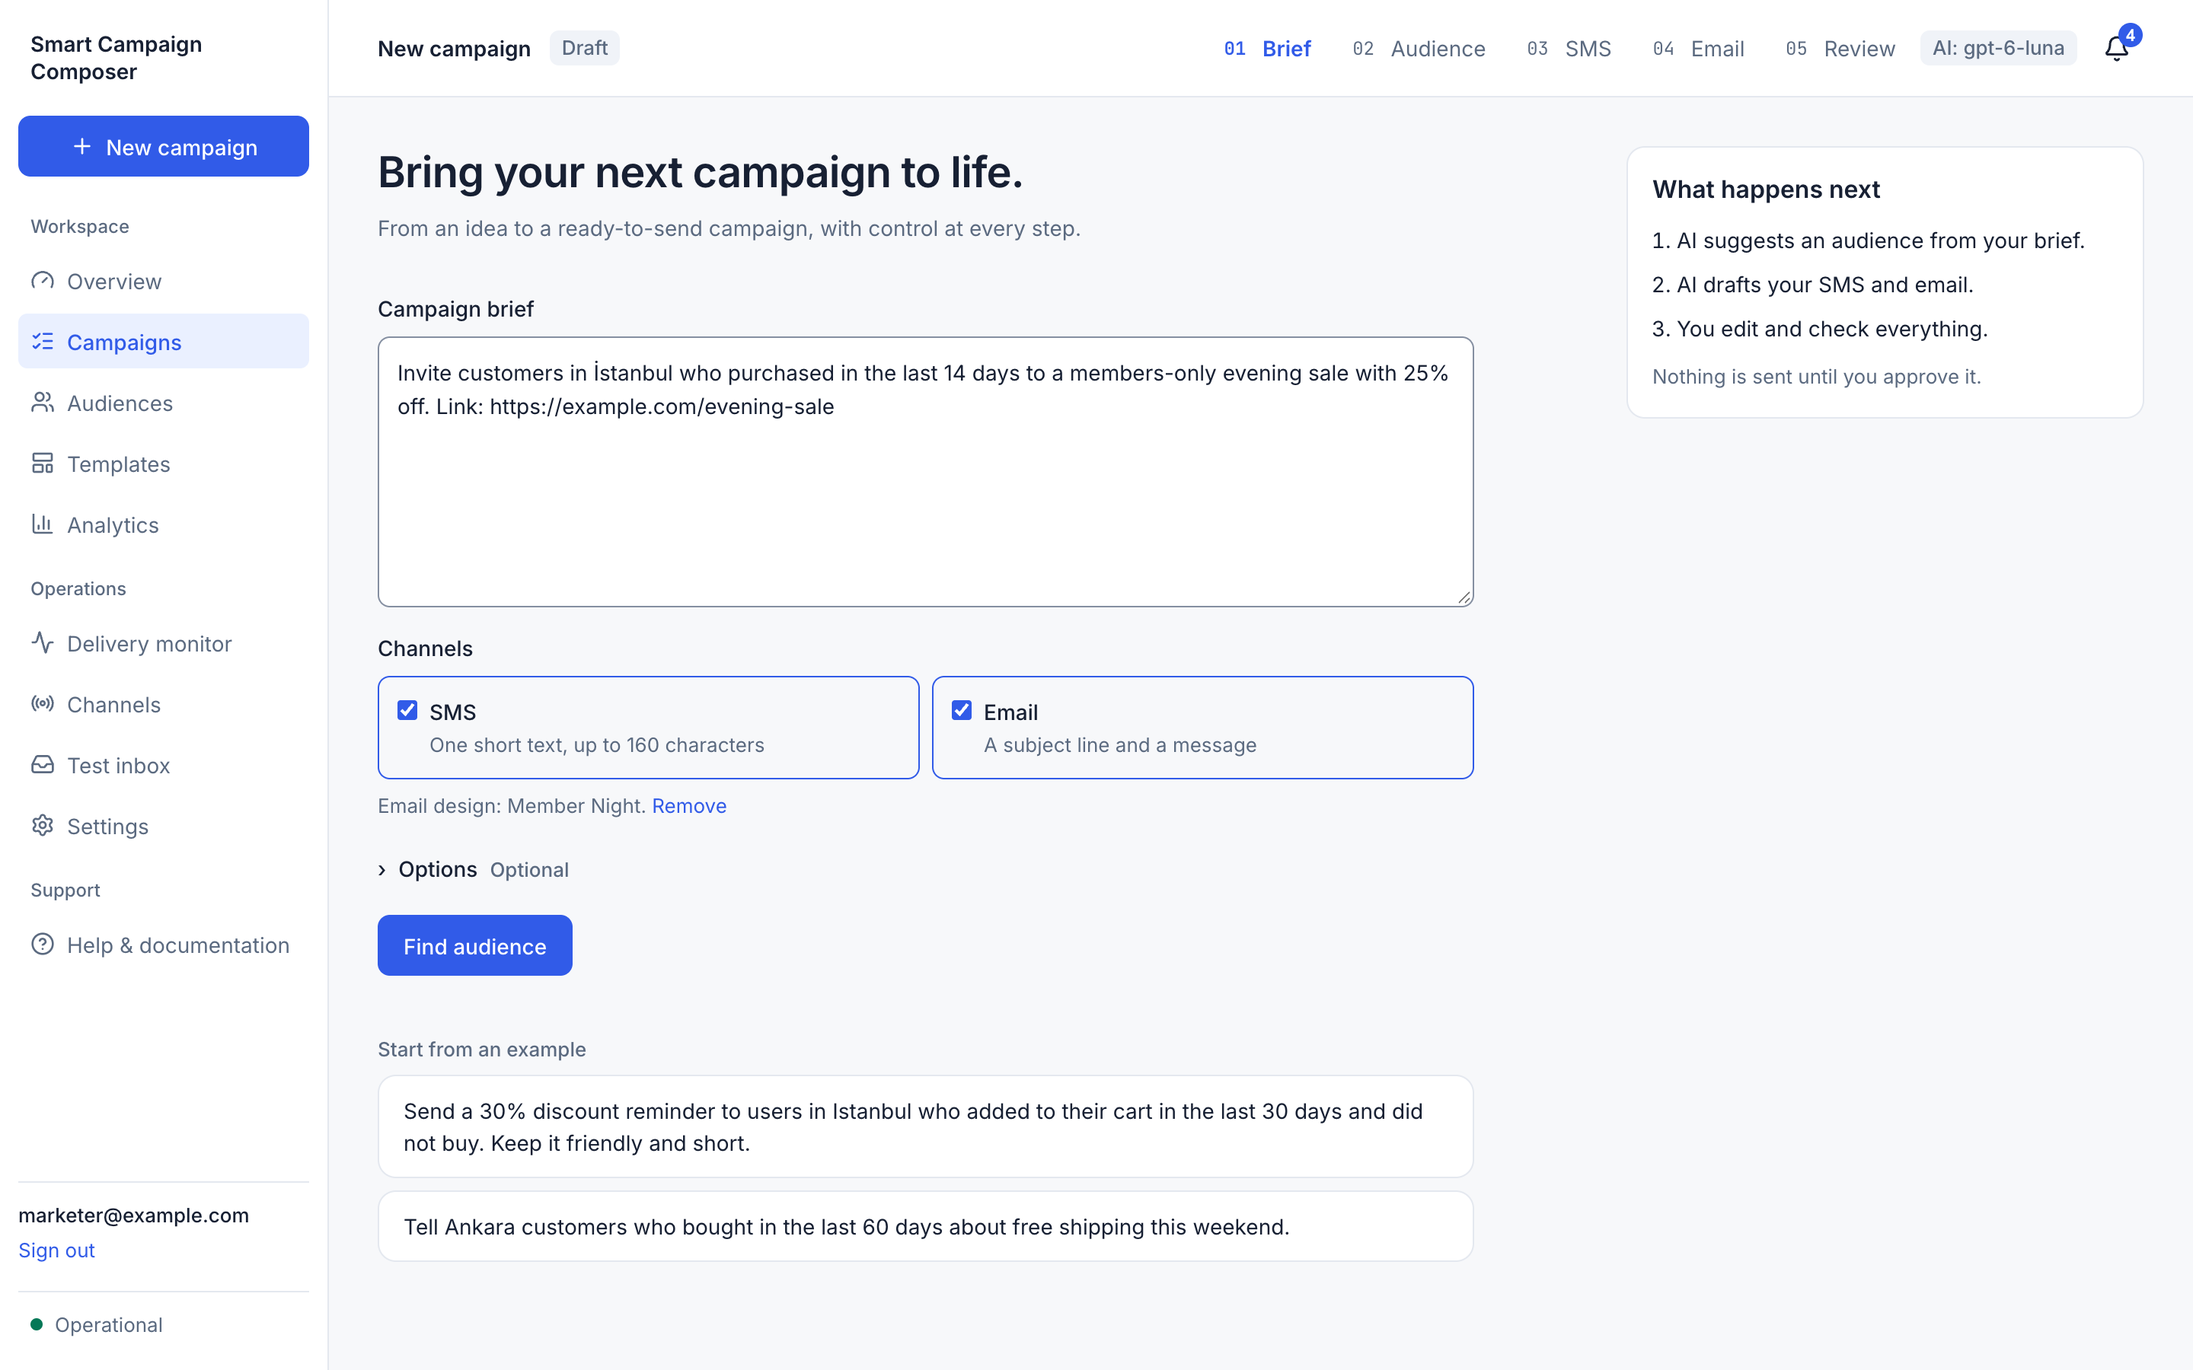
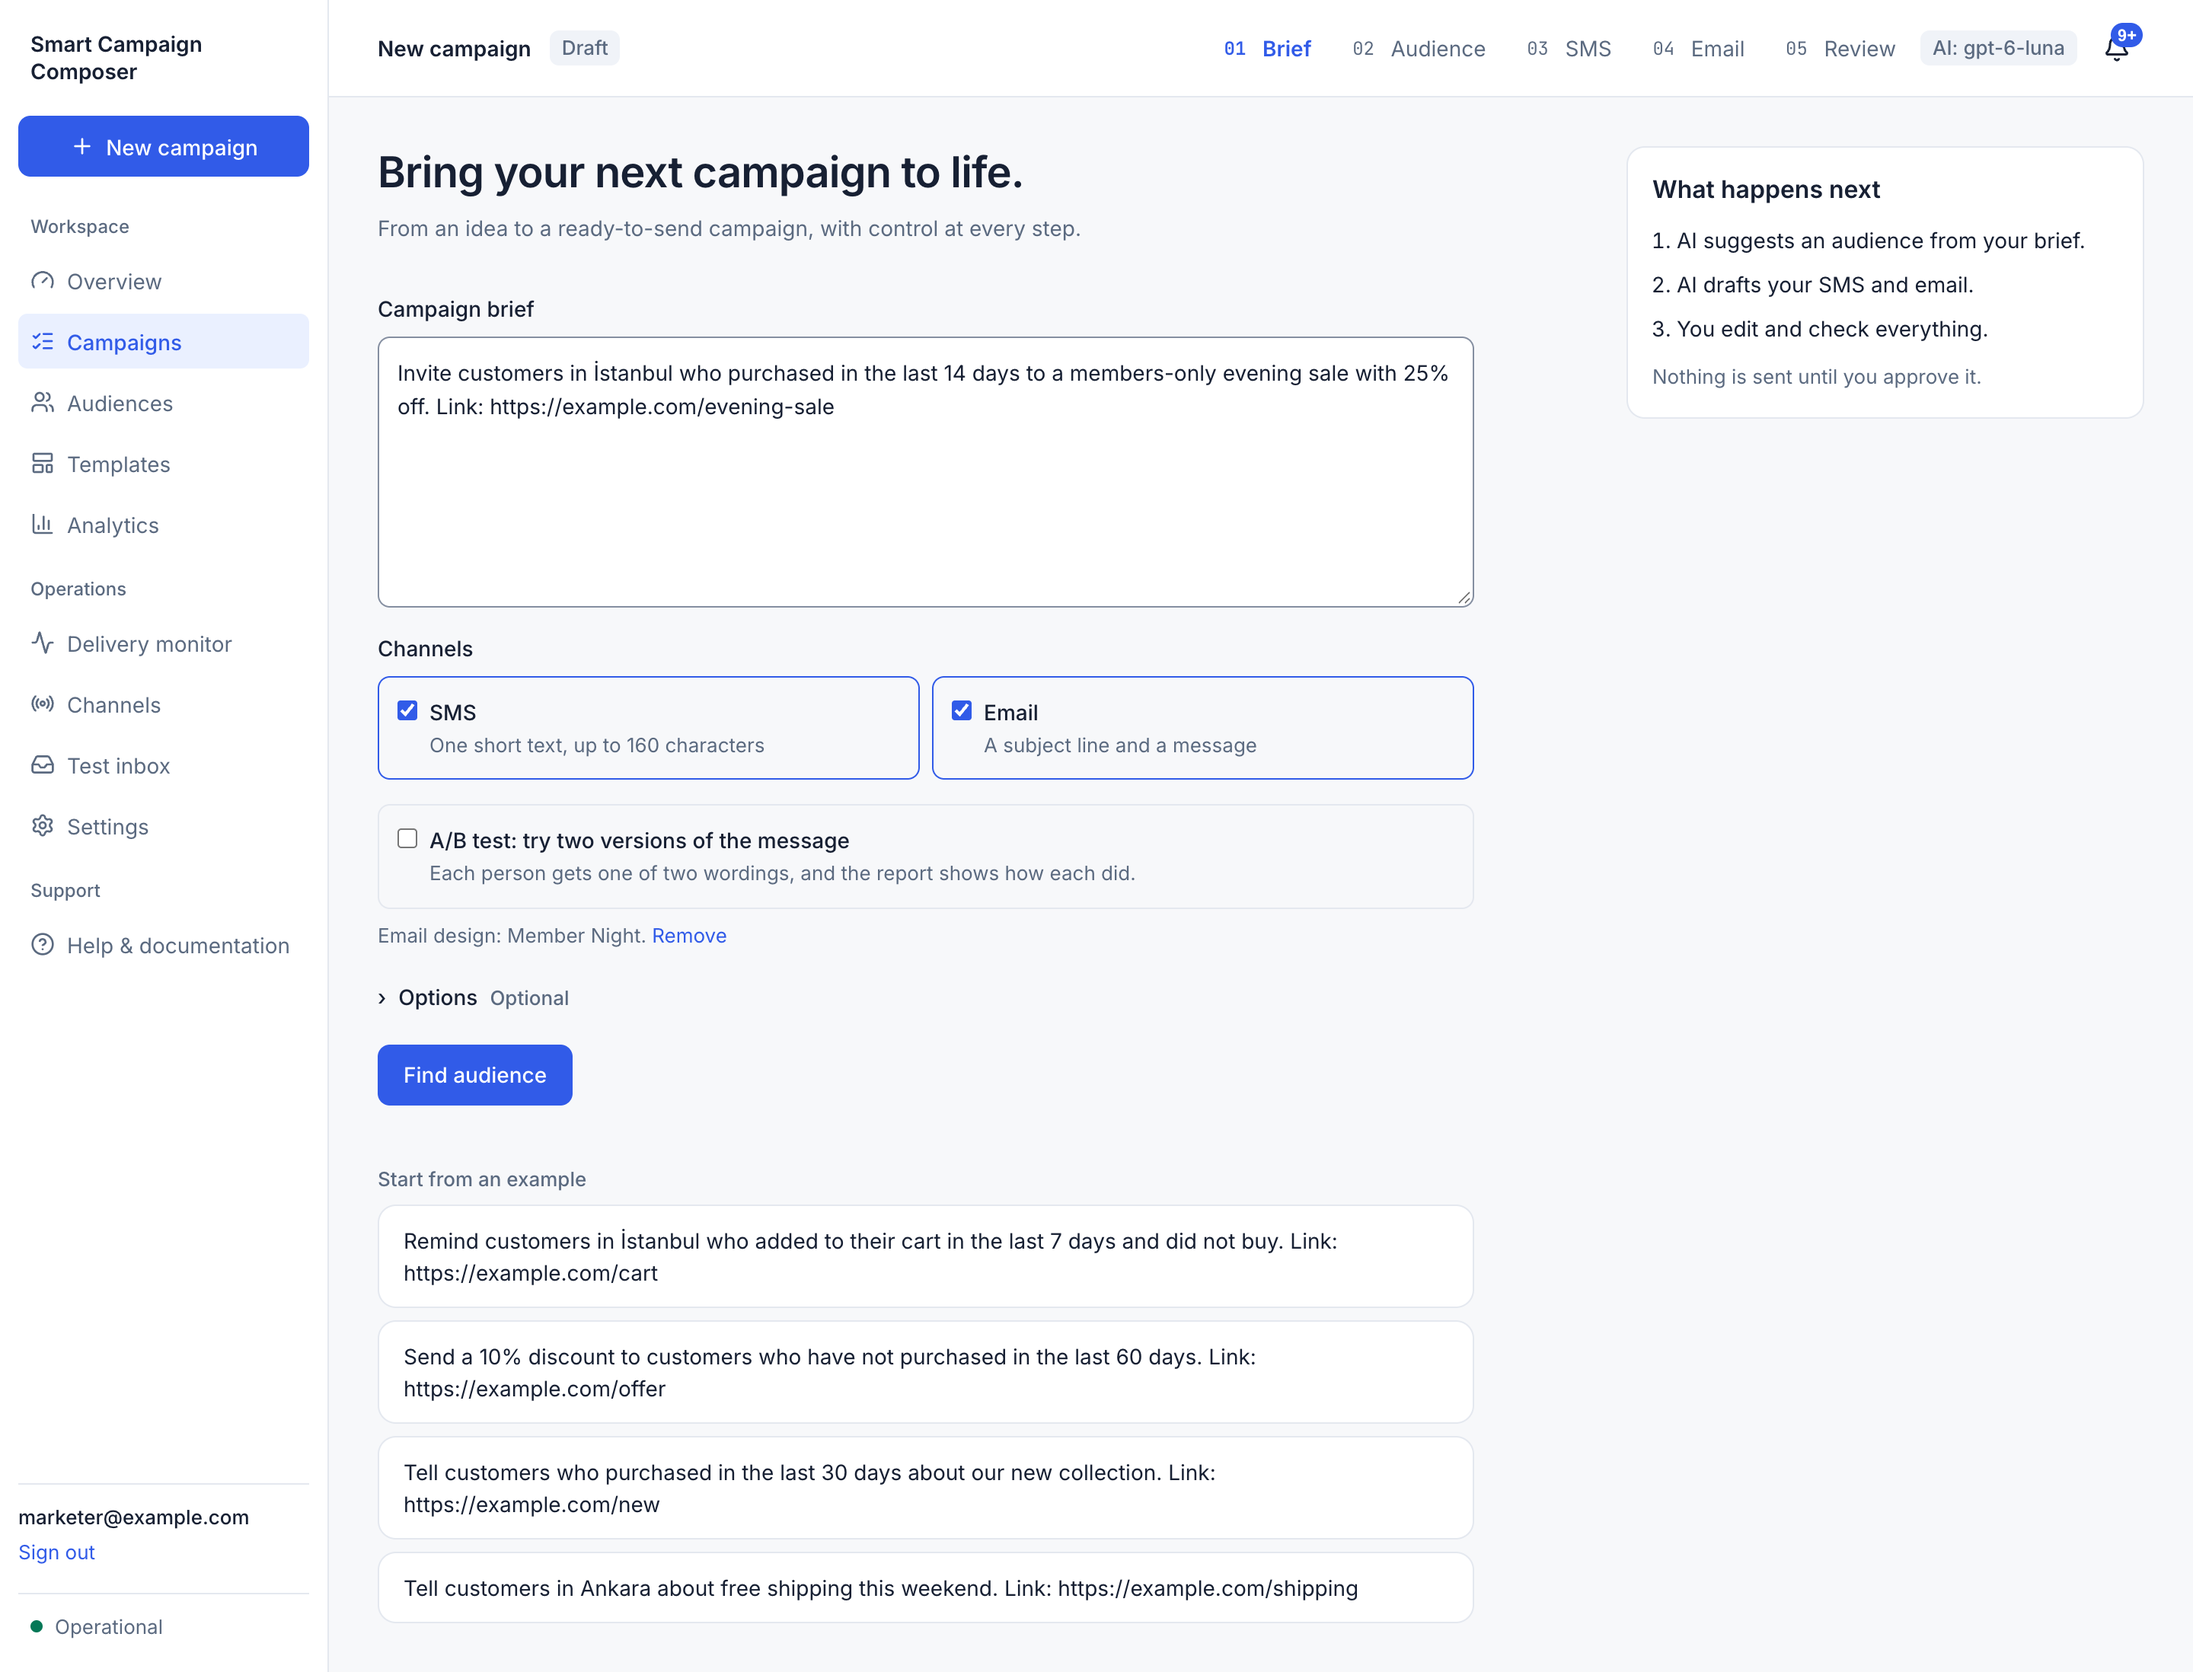
feat: surface the A/B test option, tick each version while writing and refresh the campaign examples

diff --git a/frontend/src/views/ComposeView.vue b/frontend/src/views/ComposeView.vue
@@ -50,8 +50,10 @@ onMounted(async () => {
 });
 
 const suggestions = [
-  "Send a 30% discount reminder to users in Istanbul who added to their cart in the last 30 days and did not buy. Keep it friendly and short.",
-  "Tell Ankara customers who bought in the last 60 days about free shipping this weekend.",
+  "Remind customers in İstanbul who added to their cart in the last 7 days and did not buy. Link: https://example.com/cart",
+  "Send a 10% discount to customers who have not purchased in the last 60 days. Link: https://example.com/offer",
+  "Tell customers who purchased in the last 30 days about our new collection. Link: https://example.com/new",
+  "Tell customers in Ankara about free shipping this weekend. Link: https://example.com/shipping",
 ];
 
 const validShare = computed(() => Number.isInteger(firstShare.value) && Number(firstShare.value) >= 1 && Number(firstShare.value) <= 99);
@@ -69,7 +71,6 @@ const optionsSummary = computed(() => {
   const chosen = [
     tone.value && tone.value[0].toUpperCase() + tone.value.slice(1),
     hasOffer.value && offer.value !== "" && `${offer.value}% discount`,
-    abTest.value && validShare.value && `Two versions, ${firstShare.value}/${100 - Number(firstShare.value)}`,
     quietDays.value && `Leaves out people messaged in the last ${quietDays.value} days`,
   ].filter(Boolean);
   return chosen.length ? chosen.join(" · ") : "Optional";
@@ -116,6 +117,22 @@ async function findAudience() {
       @submit="findAudience"
     >
       <ChannelPicker v-model="channels" :disabled="busy" />
+      <fieldset class="ab" :class="{ 'ab--on': abTest }" :disabled="busy" data-testid="ab-option">
+        <label class="ab-choice" for="campaign-ab-test">
+          <input id="campaign-ab-test" v-model="abTest" type="checkbox" data-testid="ab-test" />
+          <span class="ab-text">
+            <span class="ab-name">A/B test: try two versions of the message</span>
+            <span class="muted small">Each person gets one of two wordings, and the report shows how each did.</span>
+          </span>
+        </label>
+        <div v-if="abTest" class="option ab-share">
+          <label class="small muted" for="campaign-first-share">People who get version A (%)</label>
+          <input id="campaign-first-share" v-model.number="firstShare" class="field control" type="number" min="1" max="99" step="1" data-testid="ab-share" />
+          <p class="muted small" data-testid="ab-test-note">
+            <template v-if="validShare">The other {{ 100 - Number(firstShare) }}% get version B. </template>The offer stays the same; only the wording differs.
+          </p>
+        </div>
+      </fieldset>
       <p v-if="savedAudience" class="small muted chosen-template" data-testid="chosen-audience">
         Audience: {{ savedAudience.name }} ({{ savedAudience.conditions.map(ruleText).join(", ") }}).
         <button class="link-button small" type="button" data-testid="remove-audience" @click="savedAudience = null">Remove</button>
@@ -149,17 +166,6 @@ async function findAudience() {
               <label class="small muted" for="campaign-offer">Discount (%)</label>
               <input id="campaign-offer" v-model.number="offer" class="field control" type="number" min="1" max="100" step="1" />
             </div>
-            <label class="check small" for="campaign-ab-test">
-              <input id="campaign-ab-test" v-model="abTest" type="checkbox" data-testid="ab-test" />
-              Test two versions of the message
-            </label>
-            <div v-if="abTest" class="option">
-              <label class="small muted" for="campaign-first-share">People who get version A (%)</label>
-              <input id="campaign-first-share" v-model.number="firstShare" class="field control" type="number" min="1" max="99" step="1" data-testid="ab-share" />
-              <p class="muted small" data-testid="ab-test-note">
-                <template v-if="validShare">The other {{ 100 - Number(firstShare) }}% get version B. </template>The offer stays the same; only the wording differs.
-              </p>
-            </div>
           </fieldset>
           <fieldset class="options" :disabled="busy" data-testid="audience-options">
             <legend class="legend">Who to leave out</legend>
@@ -181,6 +187,58 @@ async function findAudience() {
 </template>
 
 <style scoped>
+.ab {
+  display: grid;
+  gap: var(--space-3);
+  min-width: 0;
+  margin: var(--space-2) 0 0;
+  padding: var(--space-3);
+  border: 1px solid var(--color-border);
+  border-radius: var(--radius-md);
+}
+
+.ab--on {
+  border-color: var(--color-primary);
+}
+
+.ab:disabled {
+  opacity: 0.6;
+}
+
+.ab-choice {
+  display: flex;
+  align-items: flex-start;
+  gap: var(--space-2);
+  cursor: pointer;
+}
+
+.ab:disabled .ab-choice {
+  cursor: not-allowed;
+}
+
+.ab-choice input {
+  margin: 3px 0 0;
+  accent-color: var(--color-primary);
+}
+
+.ab-text {
+  display: grid;
+  gap: 2px;
+  min-width: 0;
+}
+
+.ab-name {
+  font-weight: 500;
+}
+
+.ab-share .control {
+  max-width: 120px;
+}
+
+.ab-share p {
+  margin: 0;
+}
+
 .more {
   margin-top: var(--space-2);
 }

diff --git a/frontend/src/components/GenerationProgress.vue b/frontend/src/components/GenerationProgress.vue
@@ -10,6 +10,15 @@ const finished = computed(() => props.languages.filter((row) => row.state === "d
 const title = computed(() => (props.variant ? `Writing version ${props.variant}` : "Writing the messages"));
 const words = computed(() => ({ waiting: "Up next", writing: `Writing ${props.writes}`, done: "Written and checked" }));
 const icons = { waiting: Clock, writing: LoaderCircle, done: CircleCheck };
+
+// A test is written one version after the other, so a finished one stays ticked.
+const versions = computed(() => {
+  if (!props.variant) return [];
+  const current = finished.value === props.languages.length ? ("done" as const) : ("writing" as const);
+  return props.variant === "A"
+    ? [{ name: "A", state: current }, { name: "B", state: "waiting" as const }]
+    : [{ name: "A", state: "done" as const }, { name: "B", state: current }];
+});
 </script>
 
 <template>
@@ -18,6 +27,13 @@ const icons = { waiting: Clock, writing: LoaderCircle, done: CircleCheck };
       <h3>{{ title }}</h3>
       <span class="muted small" data-testid="generation-count">{{ finished }} of {{ languages.length }} {{ languages.length === 1 ? "language" : "languages" }}</span>
     </div>
+    <ol v-if="versions.length" class="versions" data-testid="generation-versions">
+      <li v-for="version in versions" :key="version.name" class="row" :class="`row--${version.state}`" :data-testid="`generation-version-${version.name}`" :data-state="version.state">
+        <component :is="icons[version.state]" class="icon" :class="{ 'icon--spin': version.state === 'writing' }" :size="16" aria-hidden="true" />
+        <span class="name">Version {{ version.name }}</span>
+        <span class="visually-hidden">{{ { waiting: "up next", writing: "being written", done: "finished" }[version.state] }}</span>
+      </li>
+    </ol>
     <ul class="rows">
       <li v-for="row in languages" :key="row.language" class="row" :class="`row--${row.state}`" :data-testid="`generation-${row.language}`">
         <component :is="icons[row.state]" class="icon" :class="{ 'icon--spin': row.state === 'writing' }" :size="16" aria-hidden="true" />
@@ -47,6 +63,16 @@ const icons = { waiting: Clock, writing: LoaderCircle, done: CircleCheck };
 .head h3,
 .progress p {
   margin: 0;
+}
+
+.versions {
+  display: flex;
+  flex-wrap: wrap;
+  gap: var(--space-2) var(--space-6);
+  margin: 0;
+  padding: 0 0 var(--space-3);
+  border-bottom: 1px solid var(--color-border);
+  list-style: none;
 }
 
 .rows {

diff --git a/frontend/src/views/content.test.ts b/frontend/src/views/content.test.ts
@@ -168,6 +168,31 @@ describe("content page", () => {
       expect(JSON.parse(String(put?.[1]?.body))).toMatchObject({ language: "en", sms: "Edited {{first_name}}" });
     });
 
+    it("starts the progress over when the second version of a test begins", async () => {
+      let next: (chunk: string) => void = () => {};
+      const stream = new ReadableStream({
+        start(controller) {
+          const encoder = new TextEncoder();
+          next = (chunk) => controller.enqueue(encoder.encode(chunk));
+        },
+      });
+      stub({ ...base, ab_test: true }, async () => ({ ok: true, status: 200, body: stream }));
+      const wrapper = open();
+      await flushPromises();
+      next(event("started", {}) + event("plan", { languages: ["tr", "en"] }));
+      await vi.waitFor(() => expect(wrapper.find("[data-testid=generation-progress] h3").text()).toBe("Writing version A"));
+
+      next(event("language_done", { language: "tr" }) + event("language_done", { language: "en" }));
+      await vi.waitFor(() => expect(wrapper.find("[data-testid=generation-count]").text()).toBe("2 of 2 languages"));
+
+      next(event("variant", { variant: "B" }));
+      await vi.waitFor(() => expect(wrapper.find("[data-testid=generation-progress] h3").text()).toBe("Writing version B"));
+      expect(wrapper.find("[data-testid=generation-count]").text()).toBe("0 of 2 languages");
+      expect(wrapper.find("[data-testid=generation-tr]").text()).toContain("Writing");
+      expect(wrapper.find("[data-testid=generation-en]").text()).toContain("Up next");
+      wrapper.unmount();
+    });
+
     it("says which version is being written after the first", async () => {
       let finish: () => void = () => {};
       const stream = new ReadableStream({

diff --git a/frontend/src/components/GenerationProgress.test.ts b/frontend/src/components/GenerationProgress.test.ts
@@ -22,6 +22,24 @@ describe("GenerationProgress", () => {
     expect(wrapper.get('[data-testid="generation-progress"]').attributes("aria-live")).toBe("polite");
   });
 
+  it("ticks a finished version before the next one is written", () => {
+    const row = (state: "waiting" | "writing" | "done") => [{ language: "en", name: "English", state }];
+    const states = (variant: string, state: "waiting" | "writing" | "done") => {
+      const wrapper = mount(GenerationProgress, { props: { writes: "SMS", variant, languages: row(state) } });
+      return ["A", "B"].map((name) => wrapper.get(`[data-testid="generation-version-${name}"]`).attributes("data-state"));
+    };
+
+    expect(states("A", "writing")).toEqual(["writing", "waiting"]);
+    expect(states("A", "done")).toEqual(["done", "waiting"]);
+    expect(states("B", "writing")).toEqual(["done", "writing"]);
+    expect(states("B", "done")).toEqual(["done", "done"]);
+  });
+
+  it("shows no versions when the campaign is not a test", () => {
+    const wrapper = mount(GenerationProgress, { props: { writes: "SMS", languages: [{ language: "en", name: "English", state: "writing" }] } });
+    expect(wrapper.find('[data-testid="generation-versions"]').exists()).toBe(false);
+  });
+
   it("names the version of a test", () => {
     const wrapper = mount(GenerationProgress, { props: { writes: "SMS", variant: "B", languages: [{ language: "en", name: "English", state: "writing" }] } });
     expect(wrapper.text()).toContain("Writing version B");

diff --git a/frontend/src/views/channels.test.ts b/frontend/src/views/channels.test.ts
@@ -241,10 +241,17 @@ describe("campaign options", () => {
     await wrapper.find("#campaign-ab-test").setValue(true);
     await wrapper.find("#campaign-first-share").setValue(30);
     expect(wrapper.find("[data-testid=ab-test-note]").text()).toContain("other 70%");
-    expect(wrapper.find("[data-testid=options-summary]").text()).toContain("30/70");
     await wrapper.find("form").trigger("submit");
     await flushPromises();
     expect(sentBody(fetchMock)).toMatchObject({ ab_test: true, variant_a_percent: 30 });
+  });
+
+  it("offers the two-version test without opening the options", () => {
+    composeStub();
+    const wrapper = mount(ComposeView);
+    expect(wrapper.find("#campaign-ab-test").exists()).toBe(true);
+    expect(wrapper.find("[data-testid=campaign-options] #campaign-ab-test").exists()).toBe(false);
+    expect(wrapper.find("#campaign-first-share").exists()).toBe(false);
   });
 
   it("does not continue with a share that leaves a side empty", async () => {

diff --git a/frontend/src/views/ContentView.vue b/frontend/src/views/ContentView.vue
@@ -207,7 +207,7 @@ async function generate(input: { instruction?: string; missing_languages?: boole
   saveError.value = "";
   stopped.value = false;
   writingLanguage.value = "";
-  writingVariant.value = "";
+  writingVariant.value = campaign.value?.ab_test ? "A" : "";
   wholeCampaign.value = !before || Boolean(input.missing_languages);
   planned.value = [];
   writingNow.value = [];
@@ -236,8 +236,11 @@ async function generate(input: { instruction?: string; missing_languages?: boole
         },
         onLanguageDone: (language) => finished.value.push(language),
         onVariant: (variant) => {
+          // The next version goes through every language again, so its progress starts over.
           writingVariant.value = variant;
           writingLanguage.value = "";
+          writingNow.value = planned.value.slice(0, 1);
+          finished.value = [];
         },
       },
       controller.signal,
